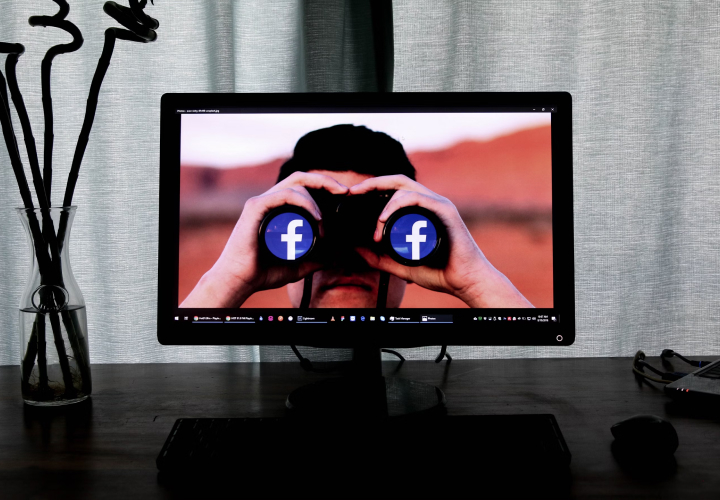
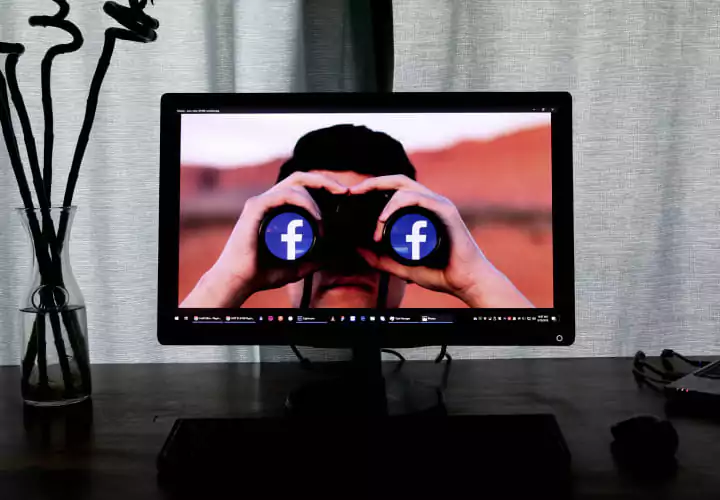
add compressed webp images

Changed region(s): [[0.7028, 0.63, 0.7333, 0.66], [0.4889, 0.63, 0.5194, 0.66], [0.3667, 0.63, 0.3972, 0.66]]

diff --git a/src/routes/+page.svelte b/src/routes/+page.svelte
@@ -200,7 +200,13 @@
 				>
 					<!-- <p class="date">{formatDate(post.date)}</p> -->
 					{#if post.thumbnail}
-						<img class="latest-posts__article-thumbnail" src={post.thumbnail} alt={post?.title} />
+						<img
+							class="latest-posts__article-thumbnail"
+							src={post.thumbnail}
+							alt={post?.title}
+							width="720"
+							height="500"
+						/>
 						<div class="latest-posts__article-meta">
 							<h2 class="latest-posts__article-title">{post.title}</h2>
 							<p class="latest-posts__article-description">
@@ -258,6 +264,14 @@
 		--borderWidth: 2px;
 		position: relative;
 		border-radius: var(--borderWidth);
+	}
+	.gradient-border > p {
+		font-size: 15px;
+	}
+	@media (min-width: 768px) {
+		.gradient-border > p {
+			font-size: 16px;
+		}
 	}
 	.gradient-border:after {
 		content: '';

diff --git a/src/routes/[slug]/+page.svelte b/src/routes/[slug]/+page.svelte
@@ -166,4 +166,10 @@
 	.markdown-content__meta-date {
 		font-size: 14px;
 	}
+
+	.article-thumbnail {
+		display: flex;
+		align-items: center;
+		justify-content: center;
+	}
 </style>
